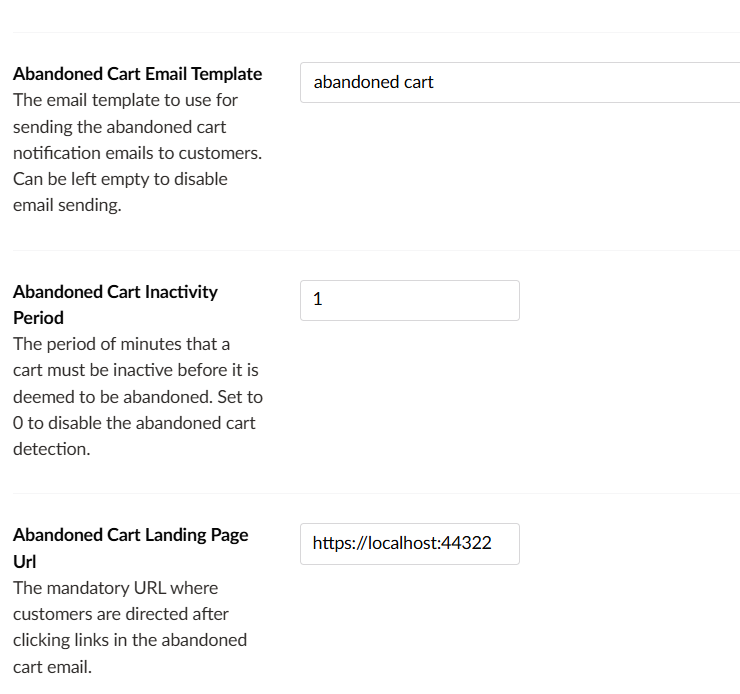
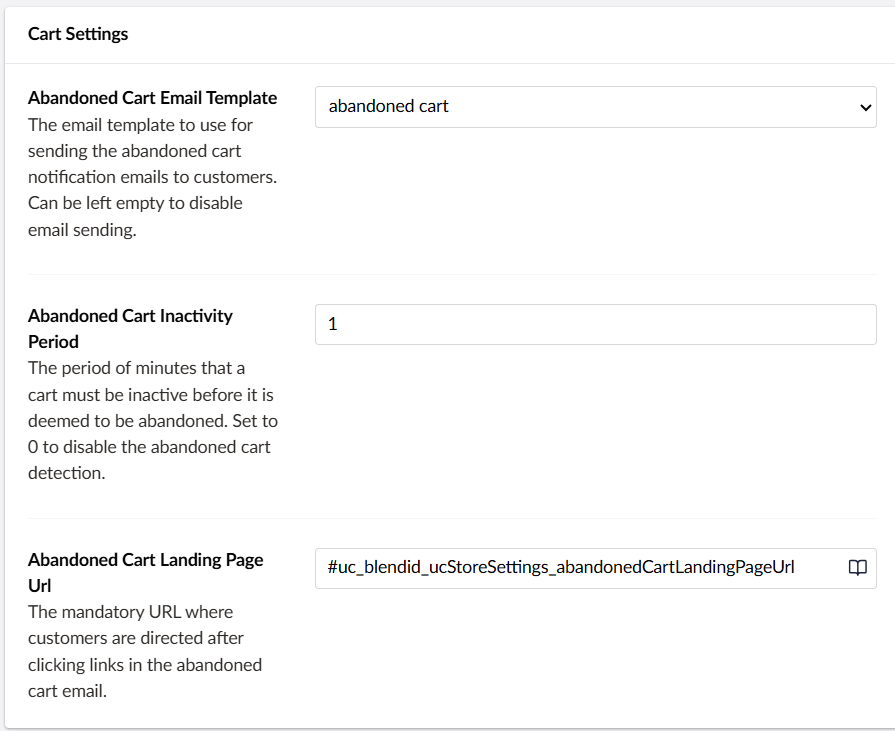
update abandoned carts job configuration; serve vale

diff --git a/16/umbraco-commerce/how-to-guides/configuring-abandoned-cart-notification.md b/16/umbraco-commerce/how-to-guides/configuring-abandoned-cart-notification.md
@@ -13,10 +13,10 @@ Available from Umbraco Commerce 16.1.0
 The abandoned cart recurring background job automatically sends reminder emails to customers about items left in their shopping carts. You can configure it using the steps below:
 - Go to Store Settings in your admin dashboard.
 - Select the store you want to configure.
-- Scroll down to the Notification Settings section.
+- Scroll down to the Cart Settings section.
 - Choose your Abandoned Cart Email Template. If the email template is not set, no notification will be sent but the webhooks can still be fired.
 - Set the period of minutes that a cart must be inactive before it is deemed to be abandoned. If the value is 0, the abandoned cart detection is disabled.
-- Enter the landing page url for customers to be redirected to when they click on the links in the abandoned cart email.
+- Enter the landing page URL for customers to be redirected to when they click on the links in the abandoned cart email.
 - Click the Save button to apply your changes.
 
 ![store notification settings](images/configuring-abandoned-cart-notification/store-notification-settings.png)
@@ -30,6 +30,7 @@ The advanced settings can be configured in the `appsettings.json`
         "Commerce": {
             // Optional settings
             "AbandonedCartNotifierService": {
+                "Enable": false,
                 "FirstRunTime": "",
                 "Period": "1.00:00:00",
                 "NotificationBatchSize": 20
@@ -43,6 +44,7 @@ The `appsettings.json` section supports the following keys.
 
 | Key | Description |
 | -- | -- |
+| `Enable` | Enable this feature.
 | `FirstRunTime` | The time to first run the scheduled cleanup task, in crontab format. If empty, runs imediately on app startup. |
 | `Period` | How often to run the task, in timespan format. Defaults to every 24 hours. |
 | `NotificationBatchSize` | The number of abandoned carts processed each time the job is run. |
@@ -61,9 +63,6 @@ A new webhook called Cart Abandoned has been added. It is triggered when the Aba
 
 ## Abandoned Cart Conversion Rates Widget
 
-The Abandoned Cart Conversion Rates widget shows how effectively your store recovers lost sales by tracking the percentage of notified abandoned carts that turn into completed purchases.
+The widget shows how many notified abandoned carts are recovered through completed purchases, reflecting your store’s abandoned cart conversion rate.
 
 ![Abandoned cart conversion rates widget](images/configuring-abandoned-cart-notification/abandoned-cart-conversion-rates-widget.png)
-
-
-
